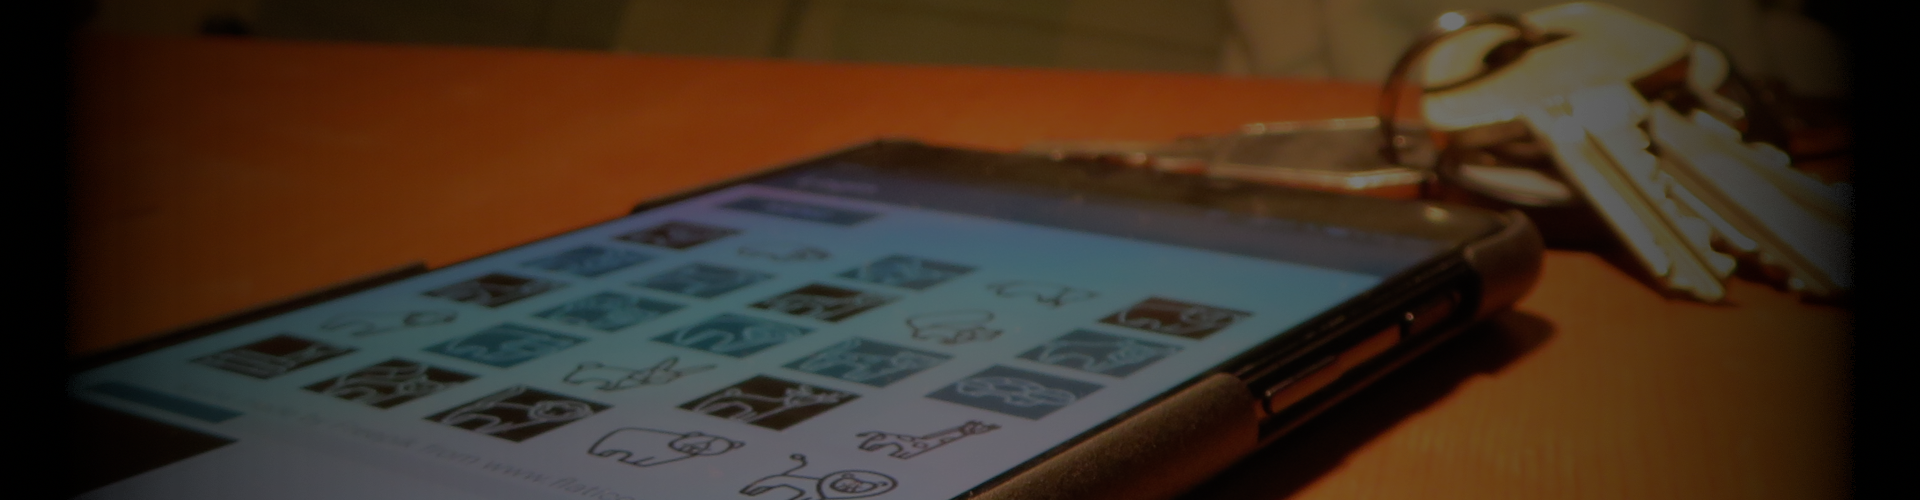
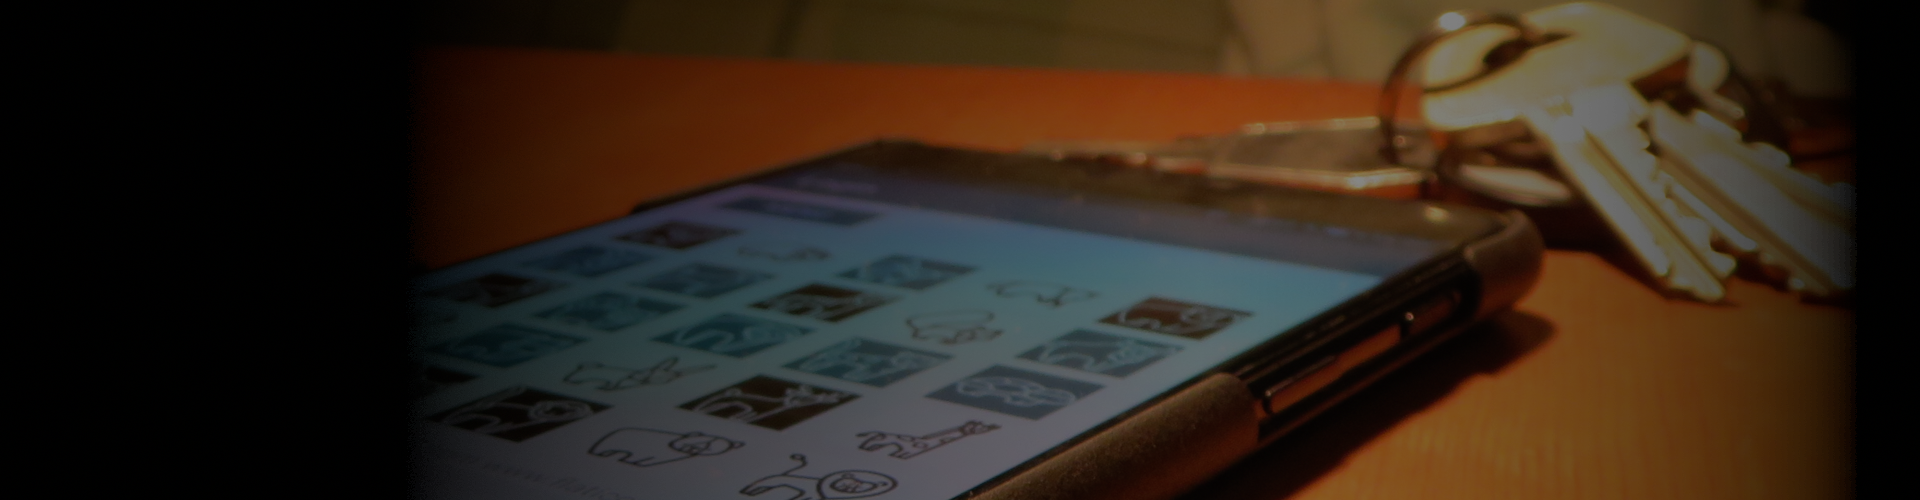
Finalized showcase design

diff --git a/src/index.js b/src/index.js
@@ -2,15 +2,16 @@ import React from 'react';
 import ReactDOM from 'react-dom';
 import './index.css';
 import profileSrc from './profile.png';
-import midiSrc from './midi.png';
 import treeSrc from './trees_fade_cut.png';
 import githubSrc from './github.png';
 import linkedinSrc from './linkedin.png';
 import resumeSrc from './resume.png';
 import kandidatSrc from './kandidat.png';
+import midiSrc from './midi.png';
+import midi2Src from './midi2.png';
 
 
-document.title = "Elias Alesand | Work In Progress";
+document.title = "Elias Alesand | Welcome";
[1 lines of base64/hex data omitted]
 const header = 
 <div id="header">
@@ -40,7 +41,7 @@ const introSection =
         <p className = "mediumtext fancyfont">My name is Elias. I am studying my fifth year at Linköping University. Here you will find things i have been doing the past few years. </p>
         <p className = "mediumtext fancyfont" id ="resumeref">For academic details and work experience, please see my resume among the links above.</p>    
     </div>
-    <div class = "blackbar"></div>
+    <div className = "blackbar"></div>
 </div>
 
 const footer = 
@@ -53,7 +54,7 @@ class Showcase extends React.Component {
     constructor(props){
         super(props);
         this.state = {
-            slideIndex: 2
+            slideIndex: 1
         }
     }
     plusSlides(n) {
@@ -70,15 +71,36 @@ class Showcase extends React.Component {
             <div className = "contententry">
                 <div className="showcase">
                     <div className="slide fade"style={{display: this.state.slideIndex ==1 ? 'block' : 'none' }}>
-                        <img className = "fillwidth" src={kandidatSrc}/>
+                        <img className = "showcaseimage" src={midi2Src}/>
+                        <p className = " largertext fancyfont showcasetitle">MIDI-lights</p>
+                        <div className = "showcasetext">
+                            <hr></hr>
+                            <p className = "mediumtext lightfont">
+                                In an attempt to make learning to play the piano more fun I created a small Python program that visualizes notes from MIDI 
+                                files on an addressable LED strip connected to a Raspberry Pi.
+                                Read more about it <a target = "_blank"href="https://github.com/EliasAlesand/MIDI-lights">here</a>.
+                            </p>
+                            <hr></hr>
+                        </div>
+                        
                     </div>
                     <div className="slide fade"style={{display: this.state.slideIndex ==2 ? 'block' : 'none' }}>
-                        <img className = "fillwidth" src={treeSrc}/>
+                        <img className = "showcaseimage" src={kandidatSrc}/>
+                        <p className = "largertext fancyfont showcasetitle">Graphical Password</p>
+                        <div className = "showcasetext">
+                            <hr></hr>
+                            <p className = " mediumtext lightfont">
+                            As my bachelor’s thesis me and another student developed a graphical password
+                            system for Android designed to be resistant to third parties watching users log in.
+                            You can find the thesis <a target = "_blank"href="https://liu.diva-portal.org/smash/record.jsf?c=1&pid=diva2%3A1108259">here</a>.
+                            </p>
+                            <hr></hr>
+                        </div>
                     </div>
                     <a className="prev" onClick={() => this.plusSlides(-1)}>&#10094;</a>
                     <a className="next" onClick={() => this.plusSlides(1)}>&#10095;</a>
                 </div>
-                <div class = "blackbar"></div>
+                <div className = "blackbar"></div>
             </div> 
         );
     }

diff --git a/src/index.css b/src/index.css
@@ -1,7 +1,5 @@
-#page{
-  margin-left: -8px;
-  margin-right: -8px;
-  margin-top: -8px;
+body{
+  margin: 0;
 }
 #header{
   color: white;
@@ -156,6 +154,30 @@
   animation-duration: 1.5s;
 }
 
+.showcasetext{
+  position: absolute;
+  color: white;
+  left: 50px;
+  top: 105px;
+  width: 450px;
+}
+.showcasetitle{
+  position: absolute;
+  color: white;
+  left: 50px;
+  top: -30px;
+}
+
+a:link {
+  color: red; 
+  background-color: transparent; 
+  text-decoration: none;
+}
+a:visited {
+  color: red;
+  background-color: transparent;
+  text-decoration: none;
+}
 @-webkit-keyframes fade {
   from {opacity: .4} 
   to {opacity: 1}
@@ -166,7 +188,7 @@
 }
 
 /*=====Responsive design======*/
-@media screen and (max-width: 1355px) { 
+@media screen and (max-width: 1405px) { 
   #headerlinks {margin-left: 400px;}  
   .headerlink { margin-top: 20px;}
   #header{height: 218px;}
@@ -176,7 +198,7 @@
   #headertext{position: absolute;left:50%;transform: translate(-50%, 0%);width: 95%;margin-left: 0px; margin-right: 0px;}
   #headerlinks{position: absolute; margin-top: 160px; left:50%; margin-left: 0px;transform: translate(-50%, 0%);}
 }
-@media screen and (max-width: 575px) { 
+@media screen and (max-width: 592px) { 
   #resumeref{display: none;}
 }
 @media screen and (max-width: 335px) { 
